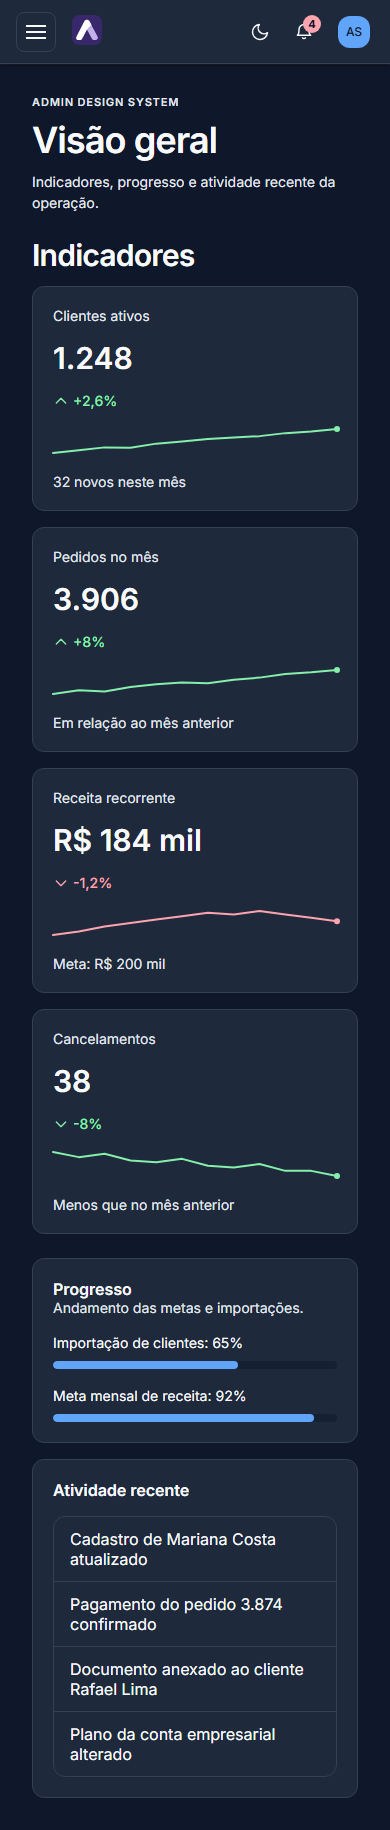
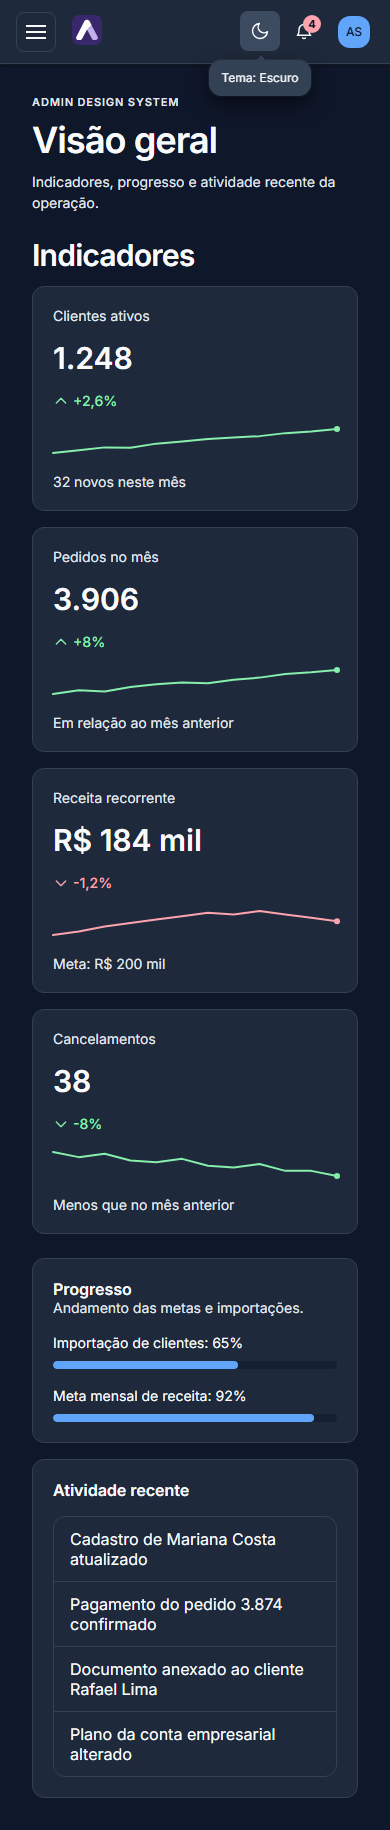
fix(admin): alinha controle na divisoria e refina avatares (#187)

Changed region(s): [[0.5231, 0.0, 0.8, 0.0623]]

diff --git a/packages/admin/src/styles.css b/packages/admin/src/styles.css
@@ -1810,21 +1810,6 @@
 		padding: var(--ads-spacing-3) var(--ads-spacing-4);
 		background: var(--ads-color-surface-raised);
 	}
-	.ads-admin-shell-sidebar-toggle-panel {
-		display: none;
-		width: 1.25rem;
-		height: 1.25rem;
-	}
-	.ads-admin-shell--sidebar-header .ads-admin-shell-sidebar-toggle-icon {
-		display: none;
-	}
-	.ads-admin-shell--sidebar-header .ads-admin-shell-sidebar-toggle-panel {
-		display: block;
-	}
-	.ads-admin-shell-sidebar-toggle[aria-expanded='false'] .ads-admin-shell-sidebar-toggle-direction {
-		transform: rotate(180deg);
-		transform-origin: 13.5px 12px;
-	}
 	.ads-admin-shell-sidebar-toggle {
 		flex-shrink: 0;
 	}
@@ -1854,9 +1839,15 @@
 			grid-row: 1 / -1;
 			display: grid;
 			grid-template-rows: subgrid;
+			/* Avoid reflowing expanded branding through intermediate collapsed widths. */
+			transition: none;
 		}
 		.ads-admin-shell--sidebar-header .ads-admin-shell-sidebar-header {
 			grid-row: 1;
+			position: relative;
+			z-index: 31;
+			min-height: 4rem;
+			padding-inline-end: var(--ads-spacing-6);
 			border-bottom: 1px solid var(--ads-color-border);
 		}
 		.ads-admin-shell--sidebar-header .ads-admin-shell-sidebar-desktop > .ads-admin-shell-sidebar {
@@ -1867,13 +1858,6 @@
 		.ads-admin-shell--sidebar-header > .ads-admin-shell-body > .ads-admin-shell-main {
 			grid-column: 2;
 			grid-row: 2;
-		}
-		.ads-admin-shell--sidebar-header
-			.ads-admin-shell-sidebar-desktop[data-collapsed='true']
-			> .ads-admin-shell-sidebar-header {
-			flex-direction: column;
-			justify-content: center;
-			padding-inline: var(--ads-spacing-2);
 		}
 		.ads-admin-shell--sidebar-header
 			.ads-admin-shell-sidebar-desktop:not(:has(> .ads-admin-shell-sidebar-header))
@@ -1896,6 +1880,42 @@
 			height: auto;
 			min-height: 0;
 			flex: 1;
+		}
+	}
+}
+
+/* Chevron on the dividing edge, opt-in only; it does not consume brand-row height. */
+@layer components {
+	@media (min-width: 48rem) {
+		.ads-admin-shell--sidebar-header
+			.ads-admin-shell-sidebar-header
+			> .ads-admin-shell-sidebar-toggle {
+			position: absolute;
+			inset-inline-end: -0.875rem;
+			top: 50%;
+			transform: translateY(-50%);
+			width: 1.75rem;
+			height: 1.75rem;
+			border-radius: 50%;
+			background-color: var(--ads-color-surface-raised);
+		}
+		.ads-admin-shell--sidebar-header
+			.ads-admin-shell-sidebar-header
+			> .ads-admin-shell-sidebar-toggle::before {
+			content: '';
+			position: absolute;
+			inset: -0.375rem;
+		}
+		.ads-admin-shell--sidebar-header
+			.ads-admin-shell-sidebar-header
+			> .ads-admin-shell-sidebar-toggle:hover:not(:disabled) {
+			background-color: var(--ads-color-surface-hover);
+		}
+		.ads-admin-shell--sidebar-header
+			.ads-admin-shell-sidebar-desktop[data-collapsed='true']
+			> .ads-admin-shell-sidebar-header {
+			justify-content: center;
+			padding-inline: var(--ads-spacing-2);
 		}
 	}
 }

diff --git a/e2e/dashboard-sidebar-branding.spec.ts b/e2e/dashboard-sidebar-branding.spec.ts
@@ -32,6 +32,13 @@ for (const theme of ['light', 'dark'] as const) {
 			await page.goto('/');
 			await expect.poll(() => columns(page)).toBe(2);
 			await expect(top(page).locator('img')).toBeVisible();
+			const organizationAvatar = page
+				.getByRole('button', { name: /Organização atual/ })
+				.locator('.ads-avatar');
+			const accountAvatar = header(page).locator('.ads-avatar');
+			expect(await organizationAvatar.evaluate((el) => getComputedStyle(el).backgroundColor)).toBe(
+				await accountAvatar.evaluate((el) => getComputedStyle(el).backgroundColor),
+			);
 			const active = page.locator('.demo-navigation a[aria-current="page"]');
 			const activeColor = await active.evaluate((el) => getComputedStyle(el).backgroundColor);
 			await page.setViewportSize({ width: 390, height: 844 });
@@ -41,6 +48,11 @@ for (const theme of ['light', 'dark'] as const) {
 			await page.setViewportSize({ width: 1280, height: 800 });
 
 			await expect(header(page).locator('.demo-brand-heading')).toBeHidden();
+			expect((await header(page).boundingBox())!.height).toBe(64);
+			await page.getByRole('button', { name: 'Recolher barra lateral' }).click();
+			expect((await header(page).boundingBox())!.height).toBe(64);
+			await page.getByRole('button', { name: 'Expandir barra lateral' }).click();
+			expect((await header(page).boundingBox())!.height).toBe(64);
 			expect((await top(page).boundingBox())!.height).toBe(
 				(await header(page).boundingBox())!.height,
 			);
@@ -57,7 +69,12 @@ for (const theme of ['light', 'dark'] as const) {
 			await expect(toggle).toBeFocused();
 			const logoBox = (await top(page).locator('img').boundingBox())!;
 			const toggleBox = (await toggle.boundingBox())!;
-			expect(logoBox.y + logoBox.height).toBeLessThanOrEqual(toggleBox.y);
+			expect(logoBox.x + logoBox.width).toBeLessThanOrEqual(toggleBox.x);
+			expect((await header(page).boundingBox())!.height).toBe(144);
+			const railBox = (await sidebar(page).boundingBox())!;
+			expect(
+				Math.abs(toggleBox.x + toggleBox.width / 2 - (railBox.x + railBox.width)),
+			).toBeLessThanOrEqual(1);
 			await noOverflow(page);
 			await toggle.press('Enter');
 			await page.setViewportSize({ width: 1600, height: 900 });
@@ -90,7 +107,7 @@ for (const theme of ['light', 'dark'] as const) {
 				await expect(header(page).locator('img')).toBeVisible();
 				await trigger.press('Enter');
 				const drawer = page.getByRole('dialog', { name: 'Navegação do demo' });
-				await expect(drawer.locator('.demo-brand-heading')).toHaveText('Admin Design System');
+				await expect(drawer.locator('.demo-brand-heading')).toHaveText('Admin DS');
 				await expect(drawer.getByRole('button', { name: /Organização atual/ })).toBeVisible();
 				await expect(drawer.getByRole('button', { name: 'Recolher barra lateral' })).toBeHidden();
 				await expectNoAxeViolations(page);

diff --git a/packages/admin/src/organization-switcher.tsx b/packages/admin/src/organization-switcher.tsx
@@ -9,6 +9,7 @@ import {
 	AdsPopover,
 	AdsTooltip,
 	type AdsOverlayPlacement,
+	type AdsAvatarTone,
 } from '@admin-ds/components';
 import {
 	forwardRef,
@@ -29,6 +30,8 @@ import {
 } from './panel-utils.js';
 
 export interface AdsOrganization {
+	/** Avatar token tone. Defaults to neutral; applies to trigger and options. */
+	avatarTone?: AdsAvatarTone;
 	id: string;
 	name: string;
 	description?: string;
@@ -213,6 +216,7 @@ export function AdsOrganizationSwitcher({
 					fallback={getInitials(current?.name, current?.initials)}
 					size="sm"
 					src={current?.logoSrc}
+					tone={current?.avatarTone ?? 'neutral'}
 				/>
 			</span>
 			<span className="ads-organization-switcher-text">
@@ -297,6 +301,7 @@ export function AdsOrganizationSwitcher({
 															fallback={getInitials(organization.name, organization.initials)}
 															size="sm"
 															src={organization.logoSrc}
+															tone={organization.avatarTone ?? 'neutral'}
 														/>
 													</span>
 													<span className="ads-organization-switcher-option-text">

diff --git a/packages/admin/tests/organization-switcher.test.tsx b/packages/admin/tests/organization-switcher.test.tsx
@@ -465,3 +465,27 @@ describe('AdsOrganizationSwitcher in the sidebar', () => {
 		);
 	});
 });
+
+it('uses each configured avatar tone in the trigger and options after switching', async () => {
+	const events = userEvent.setup();
+	setup({
+		value: undefined,
+		defaultValue: 'a',
+		organizations: [
+			{ id: 'a', name: 'Acme Brasil', avatarTone: 'primary' },
+			{ id: 'b', name: 'Globex', avatarTone: 'success' },
+		],
+	});
+	expect(trigger().querySelector('.ads-avatar')).toHaveClass('bg-primary');
+	await events.click(trigger());
+	const panel = await screen.findByRole('dialog', { name: 'Trocar de organização' });
+	const option = within(panel).getByRole('button', { name: /^Globex/ });
+	expect(option.querySelector('.ads-avatar')).toHaveClass('bg-success-background');
+	expect(
+		within(panel)
+			.getByRole('button', { name: /^Acme Brasil/ })
+			.querySelector('.ads-avatar'),
+	).toHaveClass('bg-primary');
+	await events.click(option);
+	expect(trigger(/Globex/).querySelector('.ads-avatar')).toHaveClass('bg-success-background');
+});

diff --git a/apps/docs/src/admin-shell.stories.tsx b/apps/docs/src/admin-shell.stories.tsx
@@ -338,7 +338,7 @@ function SidebarBrand() {
 			>
 				<img src="./admin-ds-favicon.svg" width={30} height={30} alt="" />
 				<strong className="ads-admin-shell-sidebar-label" style={{ overflowWrap: 'anywhere' }}>
-					Admin Design System
+					Admin DS
 				</strong>
 			</div>
 			<AdsAdminShell.SidebarToggle
@@ -366,7 +366,14 @@ function SidebarBrandShell({
 				<AdsAdminShell.Sidebar header={<SidebarBrand />} mobileTitle="Navegação">
 					{organization && (
 						<AdsOrganizationSwitcher
-							organizations={[{ id: 'demo', name: 'Organização de demonstração', initials: 'OD' }]}
+							organizations={[
+								{
+									id: 'demo',
+									name: 'Organização de demonstração',
+									initials: 'OD',
+									avatarTone: 'primary',
+								},
+							]}
 							value="demo"
 						/>
 					)}

diff --git a/packages/admin/src/admin-shell-navigation.tsx b/packages/admin/src/admin-shell-navigation.tsx
@@ -72,20 +72,6 @@ export function AdsAdminShellSidebarToggle({
 			type={props.type ?? 'button'}
 		>
 			<span aria-hidden="true" className="ads-admin-shell-sidebar-toggle-icon" />
-			<svg
-				aria-hidden="true"
-				className="ads-admin-shell-sidebar-toggle-panel"
-				viewBox="0 0 24 24"
-				fill="none"
-				stroke="currentColor"
-				strokeWidth="1.75"
-				strokeLinecap="round"
-				strokeLinejoin="round"
-			>
-				<rect x="3" y="4" width="18" height="16" rx="2" />
-				<path d="M9 4v16" />
-				<path className="ads-admin-shell-sidebar-toggle-direction" d="m15 9-3 3 3 3" />
-			</svg>
 		</button>
 	);
 }

diff --git a/apps/admin-demo/app/header-controls.tsx b/apps/admin-demo/app/header-controls.tsx
@@ -184,7 +184,7 @@ const organizations = [
 	{ description: 'Plano Enterprise', id: 'stark', name: 'Stark Indústrias' },
 	{ description: 'Plano Business', id: 'wayne', name: 'Wayne Participações' },
 	{ description: 'Suspensa', disabled: true, id: 'vandelay', name: 'Vandelay Importações' },
-];
+].map((organization) => ({ ...organization, avatarTone: 'primary' as const }));
 
 /** Opcional: o layout decide se inclui o seletor no topo da sidebar. */
 export function DemoOrganizationSwitcher() {

diff --git a/apps/docs/src/organization-switcher.stories.tsx b/apps/docs/src/organization-switcher.stories.tsx
@@ -181,3 +181,15 @@ export const WithoutOrganizationSwitcher: Story = {
 	parameters: { layout: 'fullscreen' },
 	render: () => <ShellExample withSwitcher={false} />,
 };
+
+export const ColoredAvatars: Story = {
+	name: 'Avatares coloridos por organização',
+	args: {
+		organizations: organizations.map((organization) => ({
+			...organization,
+			avatarTone: 'primary' as const,
+		})),
+		defaultValue: 'acme',
+		defaultOpen: true,
+	},
+};

diff --git a/e2e/smoke.spec.ts b/e2e/smoke.spec.ts
@@ -57,7 +57,7 @@ test('em tela estreita o título do cabeçalho segue acessível e o cabeçalho n
 
 	await expect(page.locator('.demo-brand-heading img:visible')).toBeVisible();
 	await expect(page.locator('.demo-mobile-brand .demo-brand-heading strong')).toHaveText(
-		'Admin Design System',
+		'Admin DS',
 	);
 	const height = await page
 		.locator('header')

diff --git a/apps/admin-demo/app/demo-brand.tsx b/apps/admin-demo/app/demo-brand.tsx
@@ -13,7 +13,7 @@ export function DemoBrand({ compact = false }: { compact?: boolean }) {
 				height={30}
 				priority
 			/>
-			<strong className="ads-admin-shell-sidebar-label">Admin Design System</strong>
+			<strong className="ads-admin-shell-sidebar-label">Admin DS</strong>
 		</div>
 	);
 }

diff --git a/CHANGELOG.md b/CHANGELOG.md
@@ -10,7 +10,7 @@ por versão e pelas changes correspondentes do OpenSpec.
 
 #### Added
 
-- `refine-dashboard-sidebar-branding` (issue #187) - Composição opcional `AdsAdminShell layout="sidebar-header"` e slot `Sidebar.header` alinham branding e controle de painel lateral ao header com altura natural, preservando layout padrão, estados e rolagem independente. Demo move a marca para a sidebar, mantém abertura móvel alcançável e controles #185/#182; compacta localmente a Visão geral e organiza indicadores em 1/2/4 colunas pela largura útil, com 2×2 em 1280px. Seleção light suavizada por `--ads-sidebar-active-background`, sem alterar dark. Inclui stories, catálogo, documentação, testes e comparação visual.
+- `refine-dashboard-sidebar-branding` (issue #187) - Composição opcional `AdsAdminShell layout="sidebar-header"` e slot `Sidebar.header` alinham branding e controle de painel lateral ao header com altura natural, preservando layout padrão, estados e rolagem independente. O toggle circular com chevron fica na divisória sem aumentar a altura do topo ao recolher. `AdsOrganization.avatarTone` permite colorir o avatar no gatilho e nas opções (padrão neutral); o demo usa primary, como na conta. Demo move a marca abreviada Admin DS em uma linha para a sidebar, mantém abertura móvel alcançável e controles #185/#182; compacta localmente a Visão geral e organiza indicadores em 1/2/4 colunas pela largura útil, com 2×2 em 1280px. Seleção light suavizada por `--ads-sidebar-active-background`, sem alterar dark. Inclui stories, catálogo, documentação, testes e comparação visual.
 
 - `issue-185-account-notifications-organization` (issue #185) - Três composições novas e independentes em `@admin-ds/admin`: `AdsAccountMenu` (menu de conta compacto aberto pelo avatar, com identidade, ações configuráveis por grupos, `Trocar conta` opcional e ações assíncronas pendentes), `AdsNotificationCenter` (sino com contador `99+` e painel lateral direito sobre `AdsDrawer`, filtros Todas/Não lidas, leitura individual e global por callbacks, estados de carregamento, vazio, erro, ação pendente e "Carregar mais"; abrir o painel nunca marca como lido) e `AdsOrganizationSwitcher` (seletor opcional no topo da sidebar, com busca, troca assíncrona sem confirmar antes do sucesso, estados e modo recolhido), sem mudança em `AdsAdminShell`. Evoluções compatíveis em `@admin-ds/components`: `AdsIcon` ganha `bell`, `building`, `chevronDown`, `chevronsUpDown`, `logOut`, `settings` e `user`; `AdsAvatar` tenta de novo a imagem quando `src` muda após uma falha e aceita `src={undefined}`. A biblioteca não implementa autenticação, autorização, backend, persistência nem transporte de notificações. Inclui stories, showcases em `/catalogo/account-menu`, `/catalogo/notification-center` e `/catalogo/organization-switcher` (com exemplo da sidebar sem seletor), integração no cabeçalho e na sidebar do admin demo com dados fictícios, documentação em `docs/integration.md` e testes unitários, de acessibilidade, SSR e E2E. Efeito observável no demo: sino de notificações e avatar da conta no cabeçalho e seletor de organização no topo da sidebar; o menu de tema do cabeçalho mantém o gatilho só com ícone e passa a mostrar ícone e texto nas opções (`optionDisplay="icon-text"`); tema e sino ficam sem borda no cabeçalho e o avatar da conta ganha fundo. `AdsAvatar` ganha `tone` (`neutral` padrão, `primary`, `success`, `warning`, `danger`), `backgroundColor` e `foregroundColor` (qualquer cor CSS); `AdsAccountMenu` aceita `user.avatarTone`, `avatarBackgroundColor` e `avatarForegroundColor` (padrão `primary`); `AdsThemeControl` ganha `triggerVariant` (`secondary` padrão, `ghost` sem borda), tudo aditivo; os baselines visuais do demo devem ser regenerados pelo workflow "Atualizar baselines visuais".
 

diff --git a/openspec/changes/refine-dashboard-sidebar-branding/design.md b/openspec/changes/refine-dashboard-sidebar-branding/design.md
@@ -12,7 +12,8 @@ Alinhar marca/header com altura natural; preservar contratos anteriores e manter
 
 - Root recebe layout="sidebar-header" opcional (padrão "standard"); Sidebar recebe header ReactNode opcional. A mesma Sidebar renderiza esse conteúdo antes da navegação no desktop e dentro do Drawer no mobile. Não cria organização nem espaço quando o slot está ausente.
 - Desktop opt-in usa CSS grid e subgrid: aside ocupa as duas linhas; seu header participa da linha natural do header principal. Body usa display:contents somente nessa variante. Main e navegação continuam rolando separadamente; topo da sidebar permanece disponível. Alternativas: altura fixa cortaria texto; ResizeObserver duplicaria estado de layout e custo de JS.
-- Marca e toggle são composição do consumidor. Demo usa favicon oficial (mesmo basePath existente), nome que quebra linha e símbolo sem texto visível no header móvel. Desktop compacto empilha símbolo e botão sem sobreposição; isso pode aumentar a linha superior compartilhada. Toggle usa desenho de painel lateral, mantendo semântica, labels, callbacks e disabled.
+- Ajuste aprovado após revisão visual: marca compacta "Admin DS" em uma linha; toggle circular com chevron na divisória, centralizado no topo, fora do fluxo do branding. Recolher não muda a altura da linha superior (64px na composição padrão); headers maiores continuam com altura natural. A variante não anima a largura, evitando reflow transitório do texto ao expandir; o layout standard preserva sua transição. Área de acionamento ampliada e foco visível; símbolo e botão não se sobrepõem. O toggle permanece separado da marca.
+- AdsOrganization ganha avatarTone opcional, encaminhado ao AdsAvatar no gatilho e nas opções. Padrão neutral preserva consumidores existentes; o demo fornece primary para obter o mesmo fundo do avatar da conta, com cores semânticas de cada tema.
 - Header, Body, Main e Root continuam componíveis por Server Components; estado/Sidebar/toggle seguem Client Components. Nenhum novo acesso ao DOM ou armazenamento; SSR permanece determinístico.
 - CSS público ads-* compilado pelo processo existente, sem Tailwind exigido no consumidor. Nenhuma dependência ou fonte nova; apenas markup/CSS adicionais, impacto de bundle verificado no build.
 - Demo recebe classe exclusiva de overview com tokens de espaçamento. Container queries locais 40rem/64rem definem 1/2/4 colunas. Mantém ordem do DOM, valores longos quebráveis e métricas arbitrárias no grid público.
